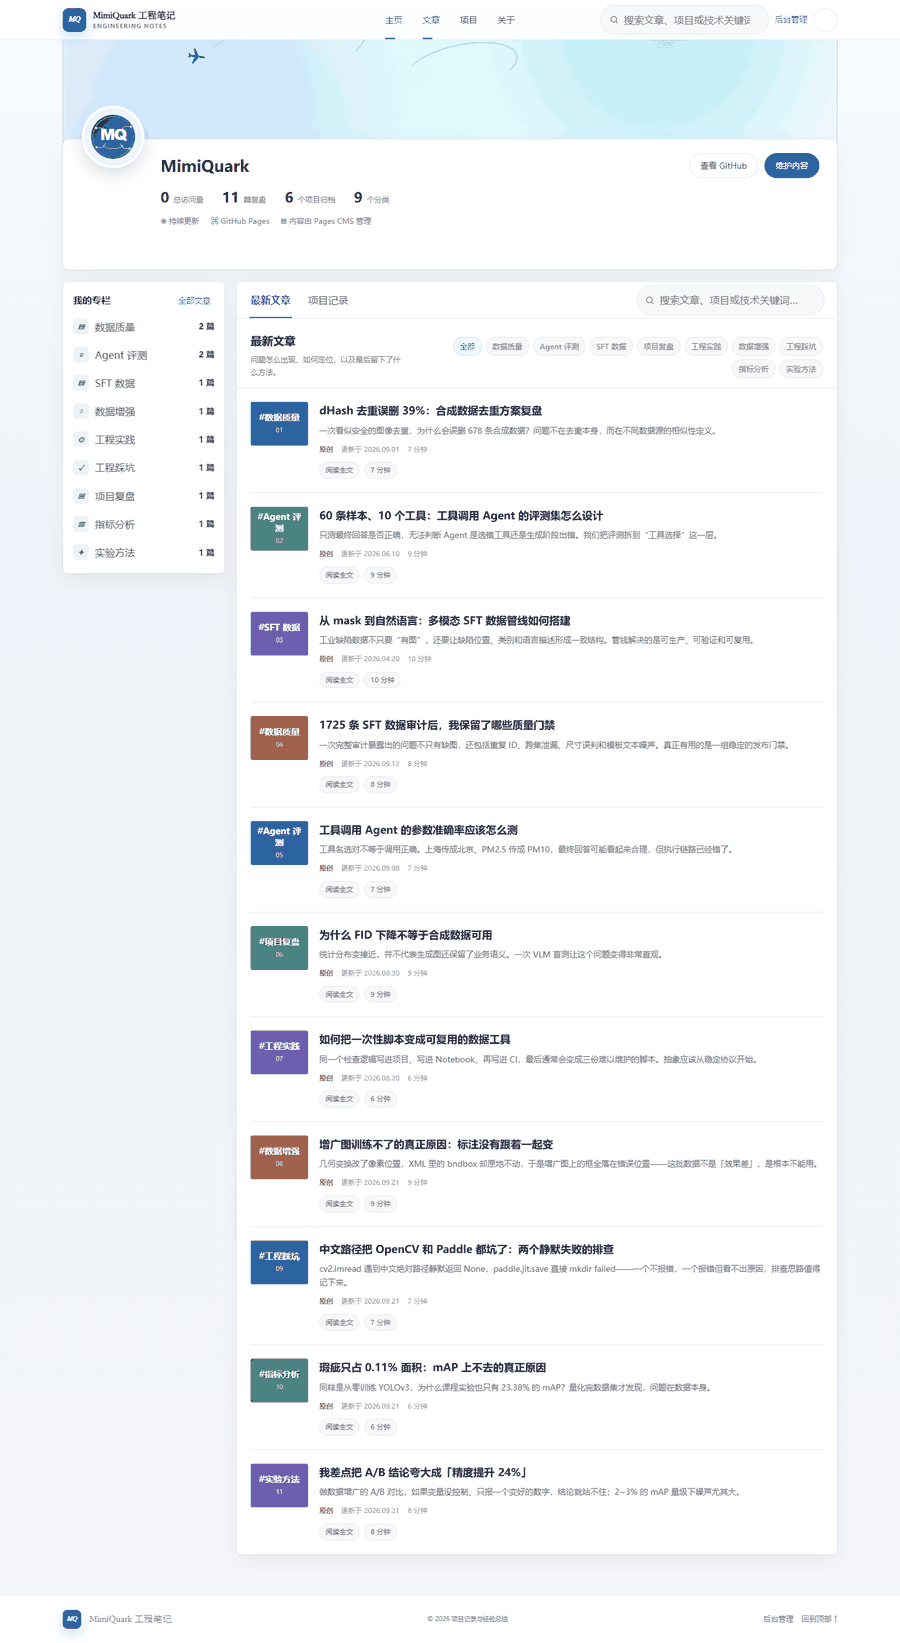
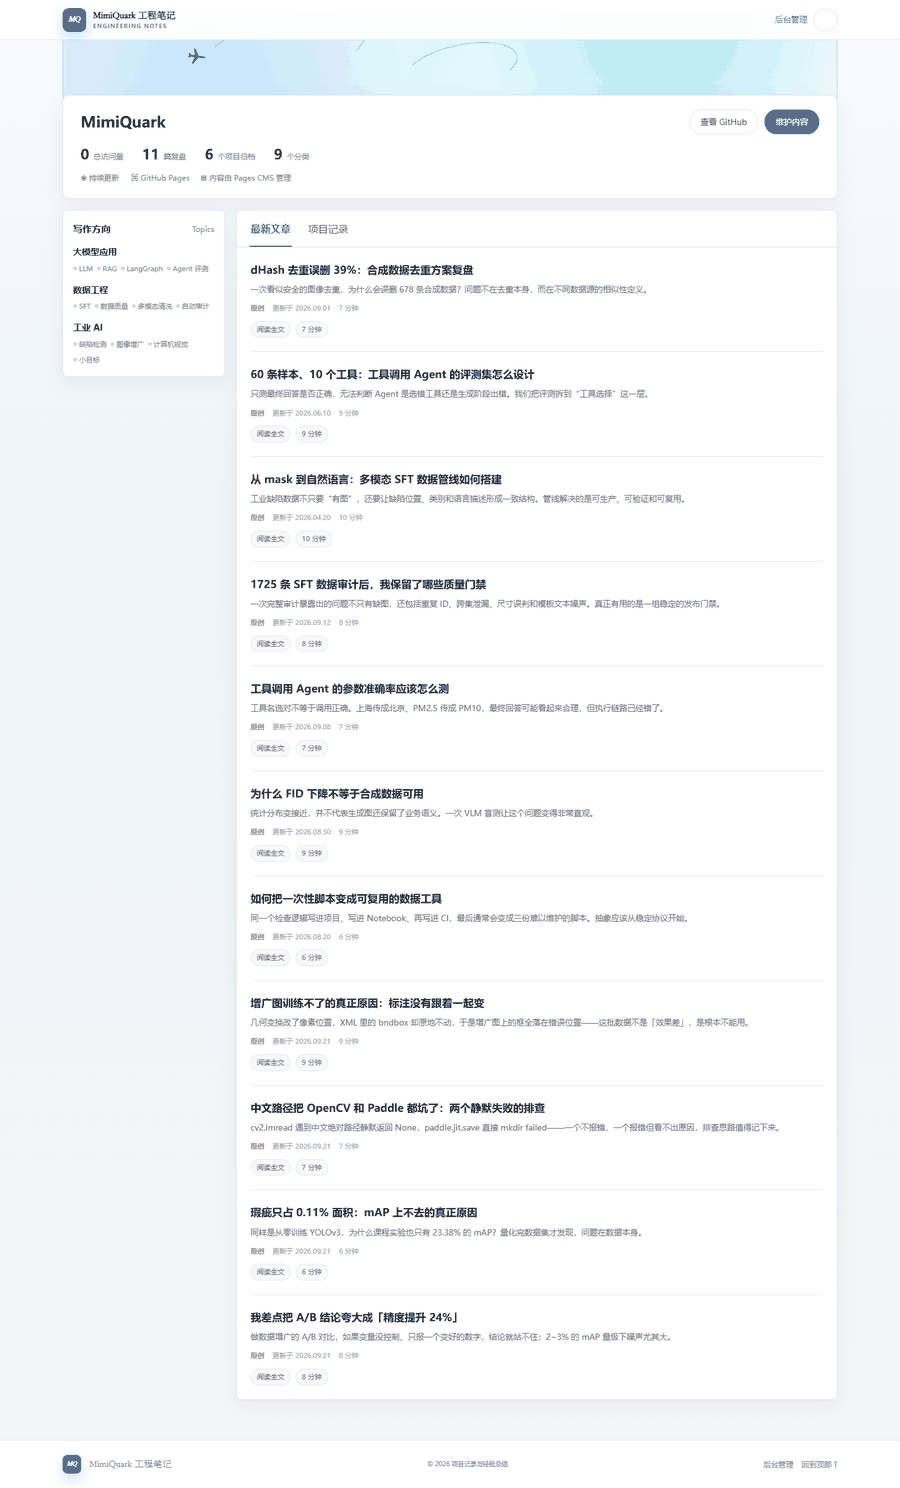
simplify layout per annotated review

diff --git a/index.html b/index.html
@@ -31,23 +31,12 @@
         <span class="brand-mark">MQ</span>
         <span class="brand-copy"><strong id="brandName">MimiQuark 技术博客</strong><small>ENGINEERING NOTES</small></span>
       </a>
-      <nav class="main-nav" aria-label="主导航">
-        <a class="nav-link active" href="#home">主页</a>
-        <a class="nav-link" href="#articles" data-nav-tab="notes">文章</a>
-        <a class="nav-link" href="#articles" data-nav-tab="projects">项目</a>
-        <a class="nav-link" href="#about">关于</a>
-      </nav>
       <div class="nav-actions">
-        <label class="header-search" for="siteSearch">
-          <svg viewBox="0 0 24 24" aria-hidden="true"><circle cx="11" cy="11" r="7"></circle><path d="m20 20-4-4"></path></svg>
-          <input id="siteSearch" type="search" placeholder="搜索文章、项目或技术关键词…" autocomplete="off">
-        </label>
         <a class="admin-link" id="adminLink" href="#" target="_blank" rel="noreferrer">后台管理</a>
         <button class="theme-toggle" type="button" aria-label="切换主题" title="切换主题">
           <svg class="sun-icon" viewBox="0 0 24 24" aria-hidden="true"><circle cx="12" cy="12" r="4"></circle><path d="M12 2v2M12 20v2M4.93 4.93l1.42 1.42M17.66 17.66l1.41 1.41M2 12h2M20 12h2M4.93 19.07l1.42-1.42M17.66 6.34l1.41-1.41"></path></svg>
           <svg class="moon-icon" viewBox="0 0 24 24" aria-hidden="true"><path d="M21 12.8A9 9 0 1 1 11.2 3 7 7 0 0 0 21 12.8Z"></path></svg>
         </button>
-        <button class="menu-toggle" type="button" aria-label="打开菜单" aria-expanded="false"><span></span><span></span></button>
       </div>
     </div>
   </header>
@@ -58,7 +47,6 @@
         <div class="cover-sketch" aria-hidden="true"><span class="sketch-plane">✈</span></div>
       </div>
       <div class="profile-card reveal">
-        <div class="profile-avatar" id="profileAvatar"><img id="profileAvatarImage" alt="" hidden><span id="profileAvatarText">MQ</span></div>
         <div class="profile-main">
           <div class="profile-title-row">
             <div>
@@ -79,11 +67,6 @@
       <aside class="sidebar" id="about" aria-label="个人数据与分类">
 
         <section class="sidebar-card reveal">
-          <div class="sidebar-heading"><h2 id="columnsTitle">内容分类</h2><button class="plain-link" id="allArticlesLabel" type="button" data-feed-tab="notes">全部文章</button></div>
-          <div class="column-list" id="columnList"></div>
-        </section>
-
-        <section class="sidebar-card reveal">
           <div class="sidebar-heading"><h2 id="interestsTitle">方向标签</h2><span>Topics</span></div>
           <div class="interest-list" id="interestList"></div>
         </section>
@@ -92,14 +75,6 @@
       <section class="feed-panel reveal" id="articles">
         <div class="feed-toolbar">
           <div class="feed-tabs" id="feedTabs" role="tablist" aria-label="内容类型"></div>
-          <label class="feed-search" for="noteSearch">
-            <svg viewBox="0 0 24 24" aria-hidden="true"><circle cx="11" cy="11" r="7"></circle><path d="m20 20-4-4"></path></svg>
-            <input id="noteSearch" type="search" placeholder="搜索文章、项目或技术关键词…" autocomplete="off">
-          </label>
-        </div>
-        <div class="feed-heading">
-          <div><h2 id="feedTitle">最新文章</h2><p id="feedSubtitle">记录项目过程、问题排查与工程复盘。</p></div>
-          <div class="feed-filters" id="feedFilters" role="group" aria-label="文章分类"></div>
         </div>
         <div class="feed-list" id="feedList" aria-live="polite"></div>
         <div class="empty-state" id="feedEmpty" hidden><strong>没有找到匹配内容</strong><span>试试其他关键词或分类。</span></div>

diff --git a/app.js b/app.js
@@ -214,7 +214,7 @@ function renderNoteItems() {
   });
   return notes.map((note, index) =>
     '<article class="feed-item note-feed-item">' +
-      '<div class="feed-tile" style="background:' + ["#315d9d", "#2f7b68", "#6d5db4", "#b45d33"][index % 4] + '"><strong>' + escapeHtml("#" + (note.category || "文章")) + '</strong><span>' + escapeHtml(note.number || "") + '</span></div>' +
+      '' +
       '<div class="feed-copy">' +
         '<button class="feed-title" type="button" data-note="' + escapeHtml(note.id) + '">' + escapeHtml(note.title || "") + '</button>' +
         '<p class="feed-excerpt">' + escapeHtml(note.excerpt || note.lead || "") + '</p>' +
@@ -232,11 +232,11 @@ function renderProjectItems() {
   );
   return projects.map((project, index) =>
     '<article class="feed-item project-feed-item">' +
-      '<div class="feed-tile" style="background:' + ["#2f7b68", "#315d9d", "#b45d33", "#6d5db4"][index % 4] + '"><strong>#' + escapeHtml(project.type || "项目") + '</strong><span>' + escapeHtml(project.number || "") + '</span></div>' +
+      '' +
       '<div class="feed-copy">' +
         '<button class="feed-title" type="button" data-project="' + escapeHtml(project.id) + '">' + escapeHtml(project.title || "") + '</button>' +
         '<p class="feed-excerpt">' + escapeHtml(project.summary || "") + '</p>' +
-        '<div class="feed-meta"><strong>项目归档</strong><span>' + escapeHtml(project.period || "") + '</span><span>' + escapeHtml((project.stack || []).slice(0, 4).join(" · ")) + '</span></div>' +
+        '<div class="feed-meta"><strong>项目归档</strong><span>#' + escapeHtml(project.type || '项目') + '</span><span>' + escapeHtml(project.period || "") + '</span><span>' + escapeHtml((project.stack || []).slice(0, 4).join(" · ")) + '</span></div>' +
         '<div class="feed-actions"><button class="feed-action" type="button" data-project="' + escapeHtml(project.id) + '">查看项目拆解</button><span class="feed-action">' + escapeHtml(project.highlight || "项目复盘") + '</span></div>' +
       '</div>' +
     '</article>'
@@ -406,16 +406,9 @@ document.addEventListener("click", event => {
 });
 
 $(".theme-toggle").addEventListener("click", () => setTheme(document.documentElement.getAttribute("data-theme") === "dark" ? "light" : "dark"));
-const menuToggle = $(".menu-toggle");
-const mainNav = $(".main-nav");
-menuToggle.addEventListener("click", () => { const open = mainNav.classList.toggle("open"); menuToggle.setAttribute("aria-expanded", String(open)); });
-$$(".main-nav a").forEach(link => link.addEventListener("click", () => { mainNav.classList.remove("open"); menuToggle.setAttribute("aria-expanded", "false"); }));
-
 document.addEventListener("keydown", event => {
   if (event.key === "Escape") {
     if ($("#detailModal").classList.contains("open")) closeModal();
-    mainNav.classList.remove("open");
-    menuToggle.setAttribute("aria-expanded", "false");
   }
 });
 

diff --git a/data.js b/data.js
@@ -17,8 +17,6 @@ window.portfolioDataFallback = {
     "adminUrl": "https://app.pagescms.org/MimiQuark/MimiQuark.github.io/main",
     "profile": {
       "displayName": "MimiQuark",
-      "avatarImage": "public/uploads/mimiquark-avatar.svg",
-      "avatarText": "MQ",
       "coverImage": "",
       "status": "持续更新",
       "stats": [
@@ -38,53 +36,6 @@ window.portfolioDataFallback = {
         {
           "label": "个分类",
           "value": "9"
-        }
-      ],
-      "columns": [
-        {
-          "title": "数据质量",
-          "count": 2,
-          "icon": "data"
-        },
-        {
-          "title": "Agent 评测",
-          "count": 2,
-          "icon": "agent"
-        },
-        {
-          "title": "SFT 数据",
-          "count": 1,
-          "icon": "article"
-        },
-        {
-          "title": "数据增强",
-          "count": 1,
-          "icon": "spark"
-        },
-        {
-          "title": "工程实践",
-          "count": 1,
-          "icon": "gear"
-        },
-        {
-          "title": "工程踩坑",
-          "count": 1,
-          "icon": "fix"
-        },
-        {
-          "title": "项目复盘",
-          "count": 1,
-          "icon": "folder"
-        },
-        {
-          "title": "指标分析",
-          "count": 1,
-          "icon": "chart"
-        },
-        {
-          "title": "实验方法",
-          "count": 1,
-          "icon": "experiment"
         }
       ],
       "interests": [
@@ -124,11 +75,9 @@ window.portfolioDataFallback = {
       }
     },
     "feed": {
-      "searchPlaceholder": "搜索文章、项目或技术关键词…",
       "notesTabLabel": "最新文章",
       "projectsTabLabel": "项目记录",
-      "emptyText": "没有找到匹配内容",
-      "subtitle": "问题怎么出现、如何定位，以及最后留下了什么方法。"
+      "emptyText": "没有找到匹配内容"
     },
     "cover": {
       "theme": "aurora"
@@ -136,9 +85,7 @@ window.portfolioDataFallback = {
     "labels": {
       "githubButton": "查看 GitHub",
       "adminButton": "维护内容",
-      "columnsTitle": "我的专栏",
-      "interestsTitle": "写作方向",
-      "allArticles": "全部文章"
+      "interestsTitle": "写作方向"
     }
   },
   "projects": [

diff --git a/profile.css b/profile.css
@@ -217,3 +217,20 @@ body {
 .profile-cover[data-cover-theme="sunrise"] .cover-copy span { color:#ad5f28 !important; }
 .profile-cover[data-cover-theme="sunrise"] .cover-copy strong { color:#233b50 !important; }
 .profile-cover[data-cover-theme="sunrise"] .cover-copy small { color:#6a6f75 !important; }
+
+/* Compact layout after annotation review */
+.profile-cover { height: 148px !important; }
+.profile-card { min-height: 126px !important; padding: 22px 28px !important; }
+.profile-title-row { align-items: center !important; }
+.profile-title-row h1 { margin: 0 !important; font-size: 24px !important; }
+.profile-stats { margin-top: 20px !important; }
+.feed-toolbar { justify-content: flex-start !important; }
+.feed-item { grid-template-columns: minmax(0,1fr) !important; gap: 0 !important; }
+.feed-tile { display: none !important; }
+.feed-list { padding-top: 0 !important; }
+.sidebar-card:only-child { margin-top: 0; }
+@media (max-width: 640px) {
+  .profile-cover { height: 128px !important; }
+  .profile-card { min-height: 118px !important; padding: 20px 18px !important; }
+  .profile-stats { margin-top: 16px !important; }
+}

diff --git a/README.md b/README.md
@@ -8,9 +8,9 @@
 
 - 顶部：博客导航、全站搜索和后台入口
 - 顶部背景：可从后台配置文字，也可以上传自定义封面图
-- 博客资料：头像、昵称、写作标签、简介和真实站点访问量
-- 左侧栏：文章分类和写作方向
-- 右侧内容流：文章/项目切换、分类筛选、关键词搜索和详情弹窗
+- 博客资料：昵称和真实站点访问量
+- 左侧栏：写作方向
+- 右侧内容流：文章/项目切换和详情弹窗
 
 桌面预览见 `preview-desktop.png`，移动端预览见 `preview-mobile.png`。
 
@@ -20,10 +20,10 @@
 
 打开 `https://app.pagescms.org/MimiQuark/MimiQuark.github.io/main` 可以编辑：
 
-- 顶部背景主题（aurora / ink / sunrise）、博客名称、搜索提示和内容流文案
-- 公开昵称、头像和顶部背景图
+- 顶部背景主题（aurora / ink / sunrise）、博客名称和内容流文案
+- 公开昵称和顶部背景图
 - 总访问量使用的计数空间、计数键和接口失败时的显示值
-- 文章分类和写作方向
+- 写作方向
 - 项目背景、技术栈、问题、解决方法和复盘结果
 - 文章分类、标题、摘要、阅读量、点赞、评论、收藏和正文
 
